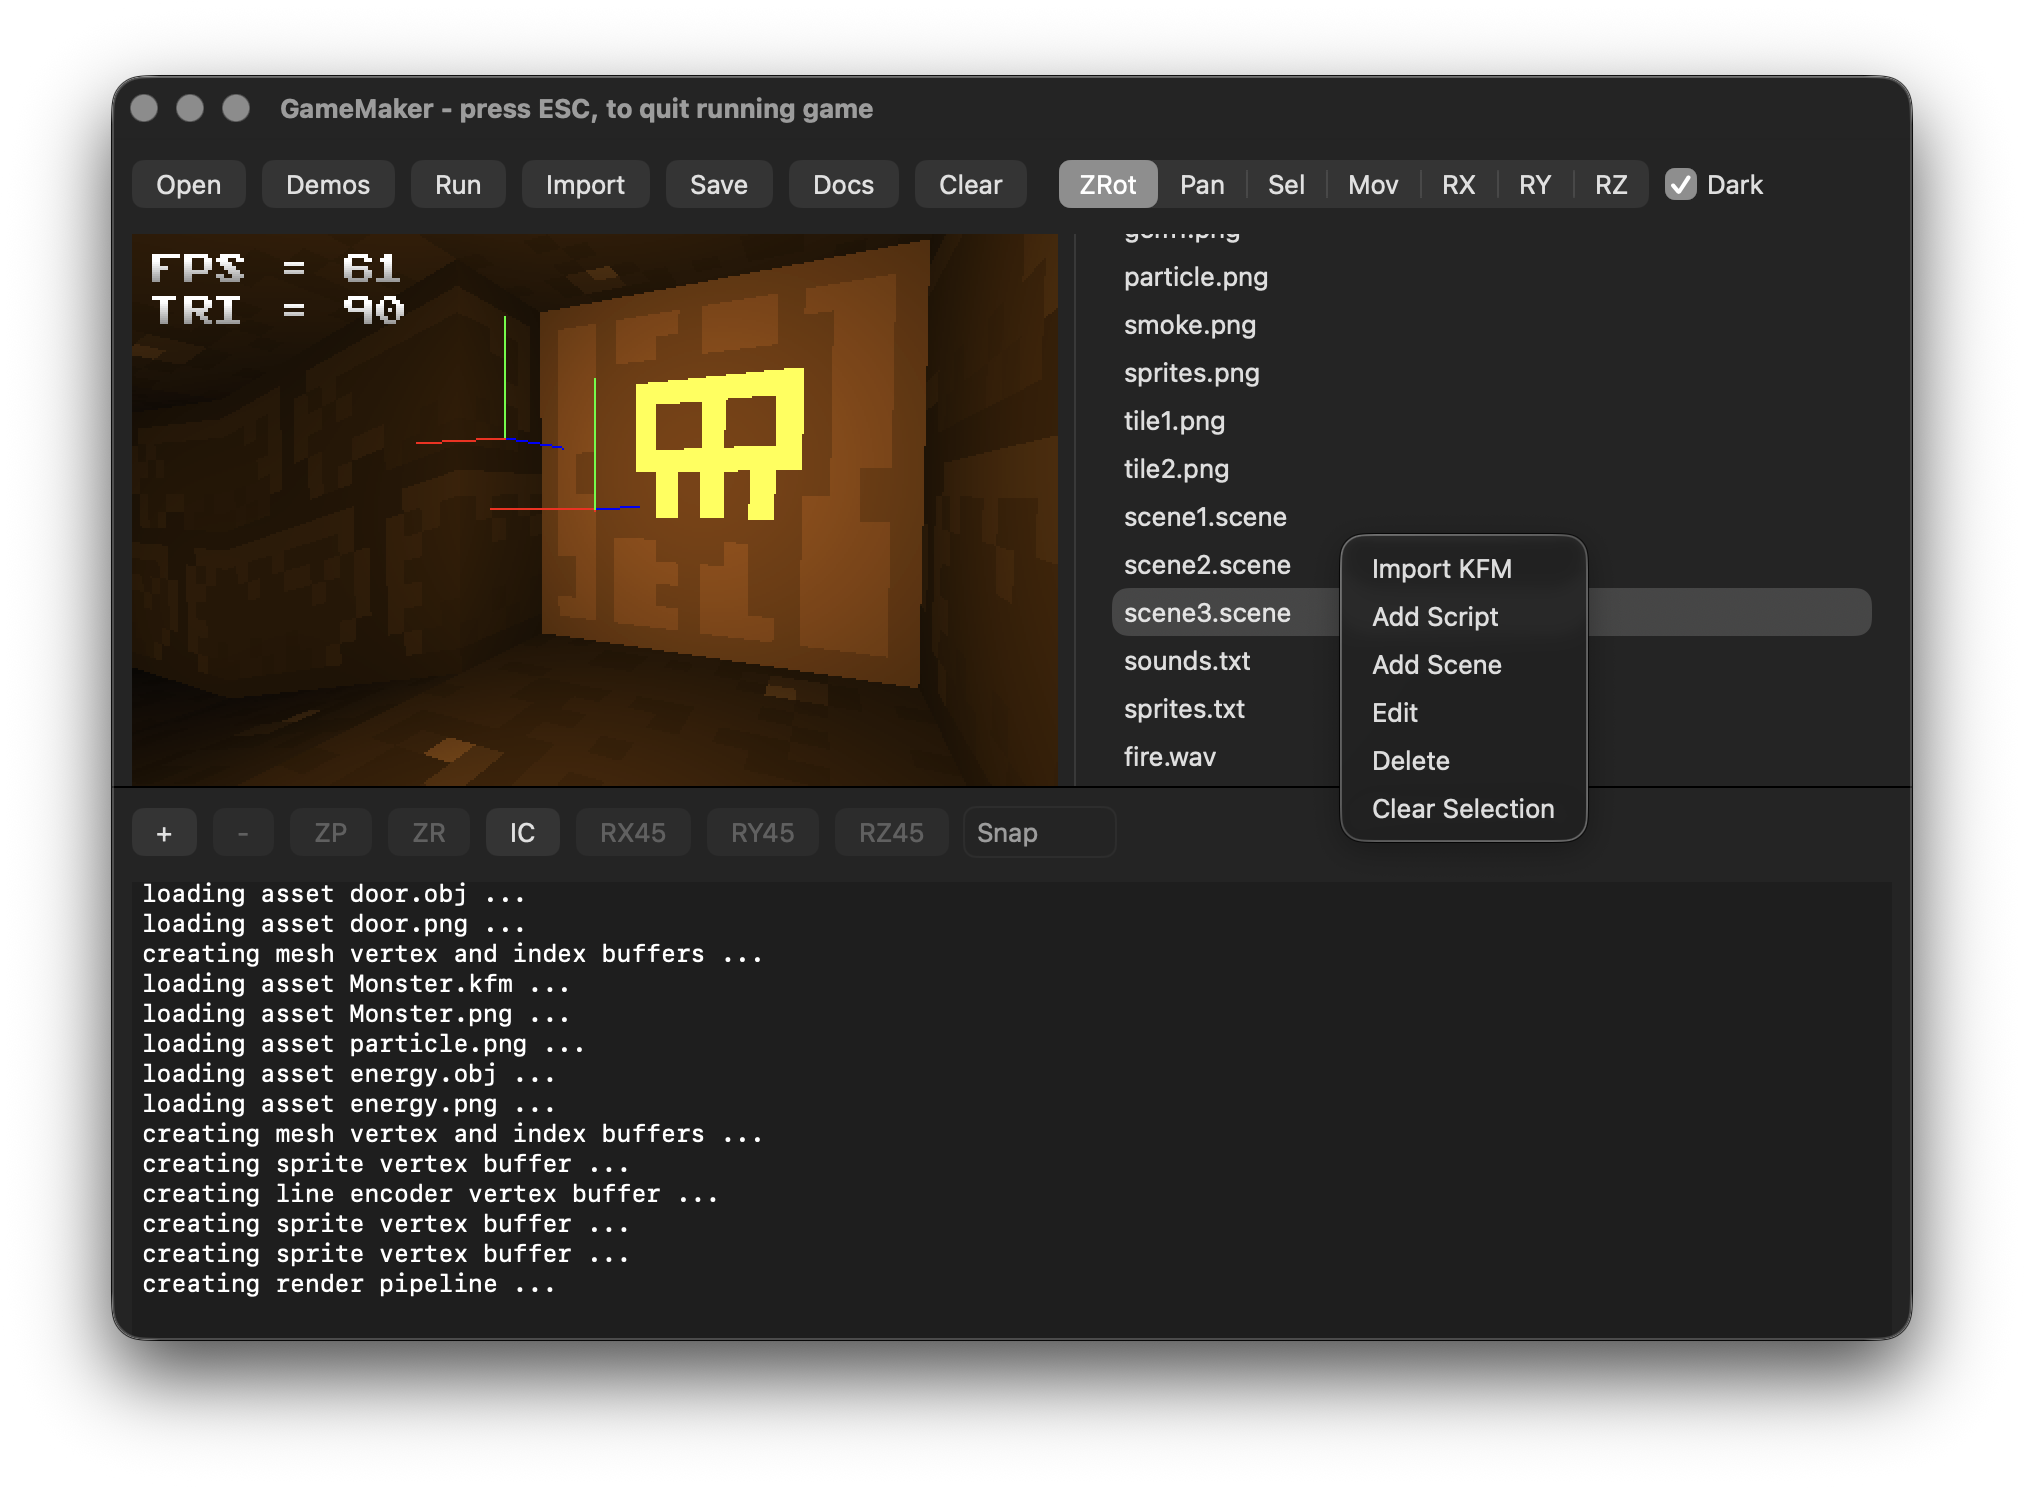
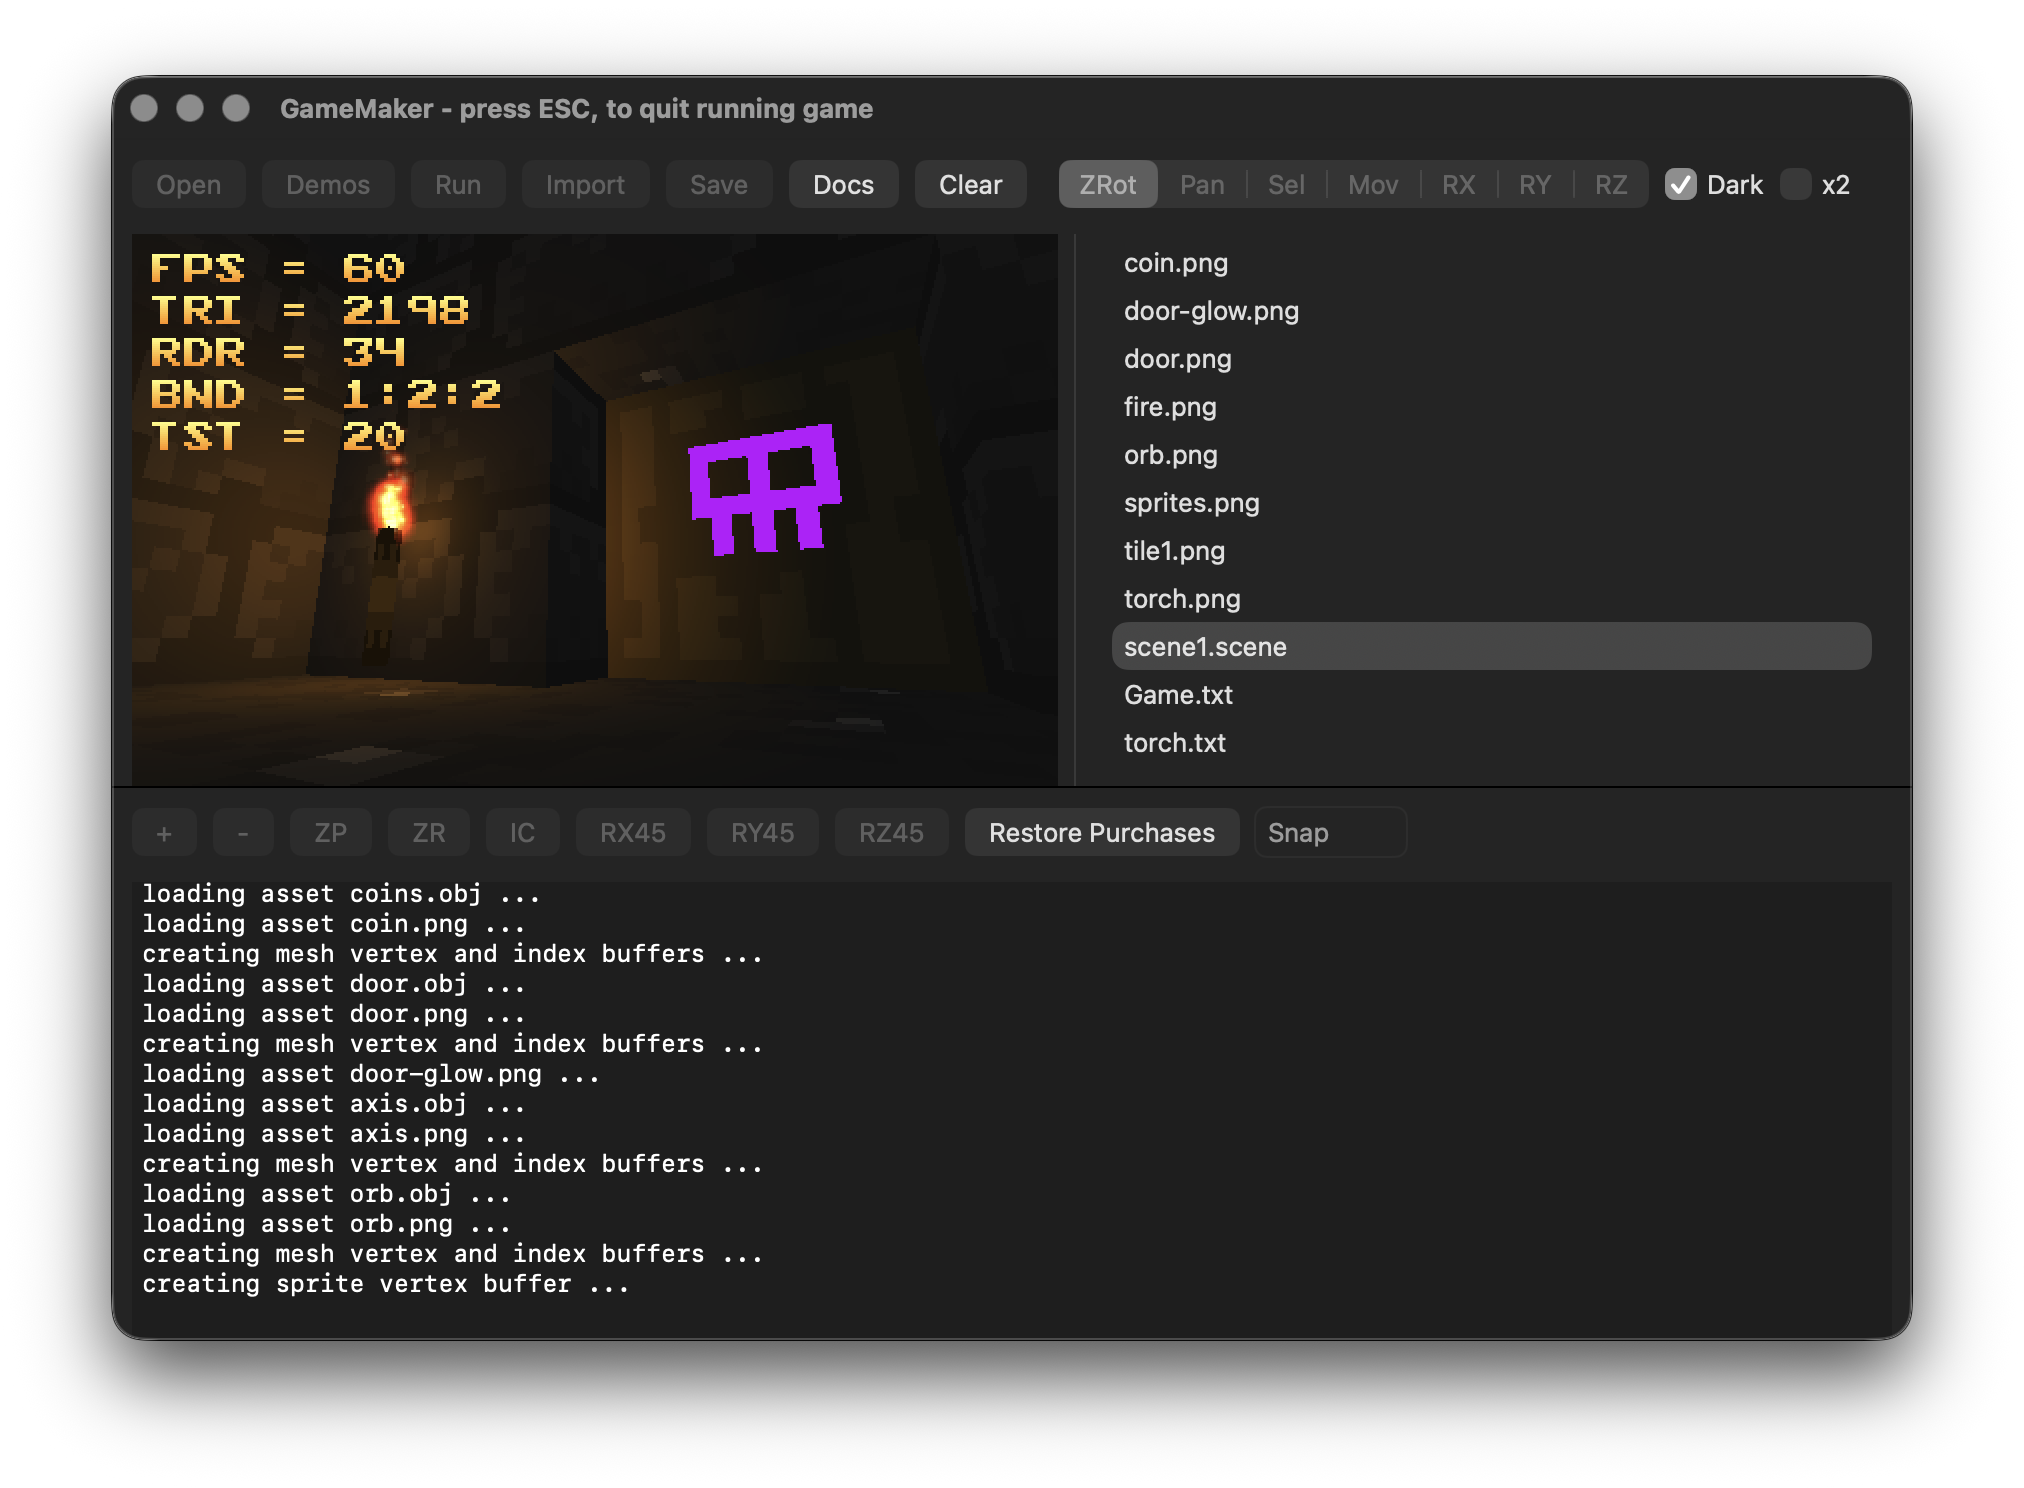
info and image update
info and image update

diff --git a/Apps/index.html b/Apps/index.html
@@ -19,8 +19,7 @@
                    </div>
                    <br/>
                    <div style="font-size:24px;color: #777777FF;">
-                   GameMaker allows you to create 3D games using javascript, in GameMaker each javascript file you make creates 
-                   an object type that you can add to the scenes that make up your game, using GameMaker's simple to learn scene editor
+                   GameMaker allows you to create 3D games
                    <br/>
                    <br/>
                    GameMaker allows you to build, run and test your games all in one place
